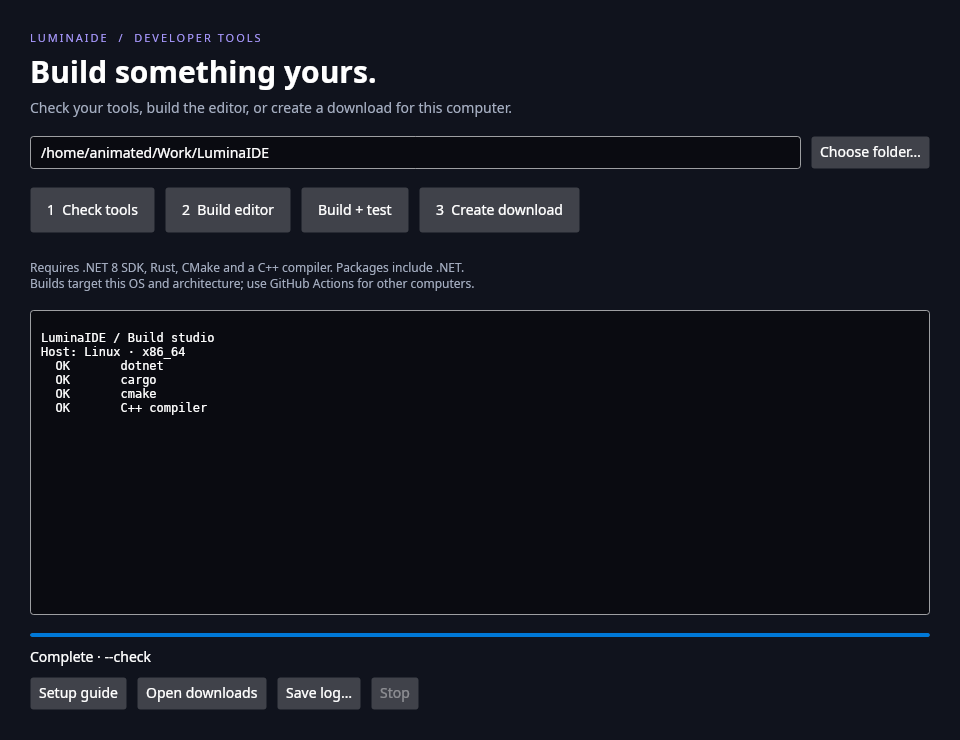
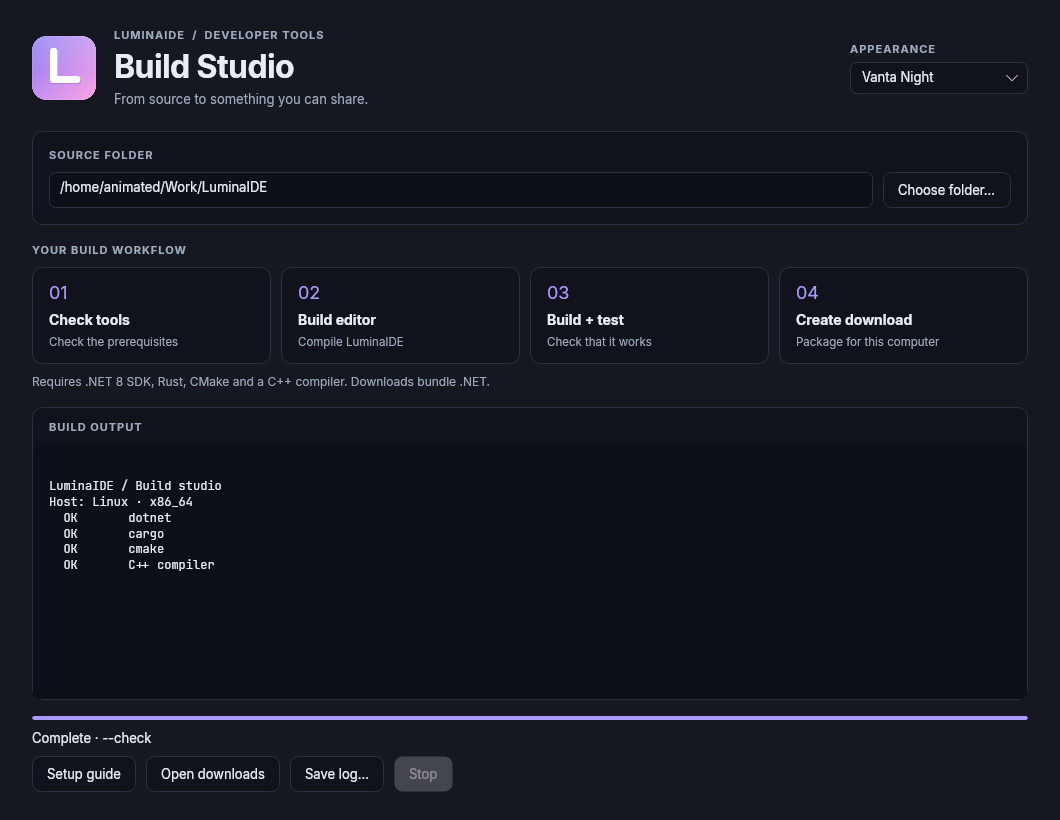
Match Build Studio to editor themes and prepare 0.3.0 release

diff --git a/tools/Builder/Program.cs b/tools/Builder/Program.cs
@@ -2,6 +2,11 @@ using System.Diagnostics;
 using Avalonia;
 using Avalonia.Controls;
 using Avalonia.Layout;
+using Avalonia.Markup.Xaml;
+using Avalonia.Media.Imaging;
+using Avalonia.Platform;
+using System.Text.Json;
+using AppTheme = LuminaIDE.Theme;
 using Avalonia.Media;
 using Avalonia.Styling;
 using Avalonia.Themes.Fluent;
@@ -19,8 +24,8 @@ public sealed class BuilderApp : Application
 {
     public override void Initialize()
     {
-        RequestedThemeVariant = ThemeVariant.Dark;
-        Styles.Add(new FluentTheme());
+        AvaloniaXamlLoader.Load(this);
+        ThemeManager.Apply(AppTheme.Fallback);
     }
     public override void OnFrameworkInitializationCompleted()
     {
@@ -34,7 +39,7 @@ public sealed class BuilderWindow : Window
 {
     readonly TextBox _source = new() { Watermark = "Choose the extracted LuminaIDE source folder" };
     readonly TextBox _log = new() { IsReadOnly = true, AcceptsReturn = true, TextWrapping = TextWrapping.NoWrap,
-        FontFamily = new FontFamily("Cascadia Code, Menlo, DejaVu Sans Mono"), FontSize = 12, MinHeight = 200 };
+        FontSize = 12, MinHeight = 140 };
     readonly TextBlock _status = new() { Text = "Ready · Start by checking your tools", TextWrapping = TextWrapping.Wrap };
     readonly ProgressBar _progress = new() { Height = 3, Minimum = 0, Maximum = 100 };
     readonly Button _cancel = new() { Content = "Stop", IsEnabled = false };
@@ -45,37 +50,80 @@ public sealed class BuilderWindow : Window
 
     public BuilderWindow()
     {
-        Title = "LuminaIDE · Build studio";
-        Width = 960; Height = 740; MinWidth = 700; MinHeight = 560;
-        Background = Brush.Parse("#10131D");
-        var content = new Grid { RowDefinitions = new("Auto,Auto,Auto,Auto,*,Auto"), Margin = new Thickness(30) };
-        var heading = new StackPanel { Spacing = 6 };
-        heading.Children.Add(new TextBlock { Text = "LUMINAIDE  /  DEVELOPER TOOLS", FontSize = 11, Foreground = Brush.Parse("#A99AFF"), LetterSpacing = 2 });
-        heading.Children.Add(new TextBlock { Text = "Build something yours.", FontSize = 30, FontWeight = FontWeight.Bold });
-        heading.Children.Add(new TextBlock { Text = "Check your tools, build the editor, or create a download for this computer.", Foreground = Brush.Parse("#A7B0C3"), TextWrapping = TextWrapping.Wrap });
-        content.Children.Add(heading);
+        Title = "LuminaIDE · Build Studio";
+        Width = 1060; Height = 820; MinWidth = 800; MinHeight = 720;
+        Icon = new WindowIcon(AssetLoader.Open(new Uri("avares://LuminaIDE.Builder/Assets/icon.png")));
+        _log.Classes.Add("log");
+        var themes = LoadThemes();
+        var preferred = PreferredTheme();
+        var initial = themes.FirstOrDefault(t => t.Name == preferred) ?? themes.First(t => t.Name == "Vanta Night");
+        ThemeManager.Apply(initial);
+
+        var content = new Grid { RowDefinitions = new("Auto,Auto,Auto,*,Auto"), Margin = new Thickness(32, 28) };
+        var header = new Grid { ColumnDefinitions = new("Auto,*,Auto"), Margin = new Thickness(0, 0, 0, 24) };
+        var logo = new Image { Source = new Bitmap(AssetLoader.Open(new Uri("avares://LuminaIDE.Builder/Assets/icon.png"))), Width = 64, Height = 64, Margin = new Thickness(0, 0, 18, 0) };
+        header.Children.Add(logo);
+        var heading = new StackPanel { Spacing = 5, VerticalAlignment = VerticalAlignment.Center };
+        heading.Children.Add(Label("LUMINAIDE  /  DEVELOPER TOOLS", "section"));
+        heading.Children.Add(new TextBlock { Text = "Build Studio", FontSize = 32, FontWeight = FontWeight.Bold, LetterSpacing = -0.6 });
+        heading.Children.Add(Label("From source to something you can share.", "muted"));
+        Grid.SetColumn(heading, 1); header.Children.Add(heading);
+        var themePanel = new StackPanel { Spacing = 6, VerticalAlignment = VerticalAlignment.Center };
+        themePanel.Children.Add(Label("APPEARANCE", "section"));
+        var picker = new ComboBox { ItemsSource = themes.Select(t => t.Name).ToArray(), SelectedItem = initial.Name, Width = 178 };
+        picker.SelectionChanged += (_, _) => {
+            if (picker.SelectedItem is string name && themes.FirstOrDefault(t => t.Name == name) is { } selected)
+                ThemeManager.Apply(selected);
+        };
+        themePanel.Children.Add(picker); Grid.SetColumn(themePanel, 2); header.Children.Add(themePanel);
+        content.Children.Add(header);
+
+        var sourcePanel = new StackPanel { Spacing = 10 };
+        sourcePanel.Children.Add(Label("SOURCE FOLDER", "section"));
         var sourceRow = new Grid { ColumnDefinitions = new("*,Auto") };
         sourceRow.Children.Add(_source);
         var browse = new Button { Content = "Choose folder…", Margin = new Thickness(10, 0, 0, 0) }; Grid.SetColumn(browse, 1); sourceRow.Children.Add(browse);
         _actions.Add(browse);
         browse.Click += async (_, _) => {
             try {
-            var folders = await StorageProvider.OpenFolderPickerAsync(new() { Title = "LuminaIDE source folder", AllowMultiple = false });
-            if (folders.Count > 0 && folders[0].Path.IsFile) _source.Text = folders[0].Path.LocalPath;
+                var folders = await StorageProvider.OpenFolderPickerAsync(new() { Title = "LuminaIDE source folder", AllowMultiple = false });
+                if (folders.Count > 0 && folders[0].Path.IsFile) _source.Text = folders[0].Path.LocalPath;
             } catch (Exception ex) { _status.Text = ex.Message; }
         };
-        Grid.SetRow(sourceRow, 1); content.Children.Add(sourceRow);
-        var actions = new WrapPanel { Orientation = Orientation.Horizontal };
-        foreach (var (label, mode) in new[] { ("1  Check tools", "--check"), ("2  Build editor", "build"), ("Build + test", "test"), ("3  Create download", "package") })
+        sourcePanel.Children.Add(sourceRow);
+        var sourceCard = new Border { Child = sourcePanel, Margin = new Thickness(0, 0, 0, 18) }; sourceCard.Classes.Add("card");
+        Grid.SetRow(sourceCard, 1); content.Children.Add(sourceCard);
+
+        var workflow = new StackPanel { Spacing = 10, Margin = new Thickness(0, 0, 0, 18) };
+        workflow.Children.Add(Label("YOUR BUILD WORKFLOW", "section"));
+        var actions = new Avalonia.Controls.Primitives.UniformGrid { Columns = 4 };
+        foreach (var (number, label, hint, mode) in new[] {
+            ("01", "Check tools", "Check the prerequisites", "--check"),
+            ("02", "Build editor", "Compile LuminaIDE", "build"),
+            ("03", "Build + test", "Check that it works", "test"),
+            ("04", "Create download", "Package for this computer", "package") })
         {
-            var button = new Button { Content = label, Margin = new Thickness(0, 0, 10, 8), Padding = new Thickness(16, 12) };
+            var body = new StackPanel { Spacing = 7 };
+            var index = Label(number, "accent"); index.FontSize = 18;
+            body.Children.Add(index);
+            body.Children.Add(new TextBlock { Text = label, FontWeight = FontWeight.SemiBold, FontSize = 14 });
+            var description = Label(hint, "muted"); description.FontSize = 11.5; body.Children.Add(description);
+            var button = new Button { Content = body, Margin = new Thickness(0, 0, number == "04" ? 0 : 10, 0) };
+            button.Classes.Add("action");
             button.Click += async (_, _) => await Run(mode);
             _actions.Add(button); actions.Children.Add(button);
         }
-        Grid.SetRow(actions, 2); content.Children.Add(actions);
-        var hint = new TextBlock { Text = "Requires .NET 8 SDK, Rust, CMake and a C++ compiler. Packages include .NET.\nBuilds target this OS and architecture; use GitHub Actions for other computers.", Foreground = Brush.Parse("#A7B0C3"), FontSize = 12, TextWrapping = TextWrapping.Wrap };
-        Grid.SetRow(hint, 3); content.Children.Add(hint);
-        Grid.SetRow(_log, 4); content.Children.Add(_log);
+        workflow.Children.Add(actions);
+        var hintText = Label("Requires .NET 8 SDK, Rust, CMake and a C++ compiler. Downloads bundle .NET.", "muted");
+        hintText.FontSize = 12; workflow.Children.Add(hintText);
+        Grid.SetRow(workflow, 2); content.Children.Add(workflow);
+
+        var output = new Grid { RowDefinitions = new("Auto,*") };
+        var outputTitle = Label("BUILD OUTPUT", "section"); outputTitle.Margin = new Thickness(16, 12);
+        output.Children.Add(outputTitle); Grid.SetRow(_log, 1); output.Children.Add(_log);
+        var outputCard = new Border { Child = output, Padding = new Thickness(0), ClipToBounds = true, Margin = new Thickness(0, 0, 0, 16) };
+        outputCard.Classes.Add("card"); Grid.SetRow(outputCard, 3); content.Children.Add(outputCard);
+
         var footer = new StackPanel { Spacing = 10 };
         footer.Children.Add(_progress); footer.Children.Add(_status);
         var links = new WrapPanel();
@@ -83,12 +131,12 @@ public sealed class BuilderWindow : Window
         AddLink(links, "Open downloads", () => { var dir = Path.Combine(Folder(), "dist"); Directory.CreateDirectory(dir); Open(dir); });
         AddLink(links, "Save log…", async () => {
             try {
-            var file = await StorageProvider.SaveFilePickerAsync(new() { SuggestedFileName = "lumina-build.log" });
-            if (file is not null) { await using var stream = await file.OpenWriteAsync(); stream.SetLength(0); await using var writer = new StreamWriter(stream); await writer.WriteAsync(_log.Text); }
+                var file = await StorageProvider.SaveFilePickerAsync(new() { SuggestedFileName = "lumina-build.log" });
+                if (file is not null) { await using var stream = await file.OpenWriteAsync(); stream.SetLength(0); await using var writer = new StreamWriter(stream); await writer.WriteAsync(_log.Text); }
             } catch (Exception ex) { _status.Text = "Could not save log: " + ex.Message; }
         });
         _cancel.Click += (_, _) => Cancel(); links.Children.Add(_cancel);
-        footer.Children.Add(links); Grid.SetRow(footer, 5); content.Children.Add(footer); foreach (var child in content.Children.OfType<Control>().Where(c => Grid.GetRow(c) < 5)) child.Margin = new Thickness(0, 0, 0, 18);
+        footer.Children.Add(links); Grid.SetRow(footer, 4); content.Children.Add(footer);
         Content = content;
         _source.Text = FindSource();
         Closing += (_, e) => { if (_busy) { e.Cancel = true; Cancel(); _status.Text = "Stopping the build. Close this window once it finishes."; } };
@@ -104,6 +152,35 @@ public sealed class BuilderWindow : Window
             using var bitmap = new Avalonia.Media.Imaging.RenderTargetBitmap(new PixelSize((int)Bounds.Width, (int)Bounds.Height), new Vector(96, 96));
             bitmap.Render(this); bitmap.Save(args[shot + 1]); Close();
         };
+    }
+
+    static TextBlock Label(string text, string style)
+    {
+        var label = new TextBlock { Text = text, TextWrapping = TextWrapping.Wrap };
+        label.Classes.Add(style); return label;
+    }
+    static List<AppTheme> LoadThemes()
+    {
+        var themes = new Dictionary<string, AppTheme> { ["Vanta Night"] = AppTheme.Fallback };
+        foreach (var folder in new[] { Path.Combine(AppContext.BaseDirectory, "themes"), Settings.ThemesDir })
+        {
+            try {
+                if (Directory.Exists(folder)) foreach (var file in Directory.GetFiles(folder, "*.json"))
+                    if (AppTheme.Load(file) is { Name.Length: > 0 } theme) themes[theme.Name] = theme;
+            } catch (IOException) { } catch (UnauthorizedAccessException) { }
+        }
+        return themes.Values.OrderBy(t => t.Name).ToList();
+    }
+    static string PreferredTheme()
+    {
+        // Read preferences without rewriting the editor's settings or repairing a broken file.
+        try {
+            using var json = JsonDocument.Parse(File.ReadAllText(Settings.FilePath), new JsonDocumentOptions { CommentHandling = JsonCommentHandling.Skip, AllowTrailingCommas = true });
+            foreach (var entry in json.RootElement.EnumerateObject())
+                if (entry.Name.Equals("theme", StringComparison.OrdinalIgnoreCase) && entry.Value.ValueKind == JsonValueKind.String)
+                    return entry.Value.GetString() ?? "Vanta Night";
+        } catch (IOException) { } catch (UnauthorizedAccessException) { } catch (JsonException) { } catch (InvalidOperationException) { }
+        return "Vanta Night";
     }
 
     void AddLink(Panel panel, string label, Action action)

diff --git a/tests/LuminaIDE.Tests/LogicTests.cs b/tests/LuminaIDE.Tests/LogicTests.cs
@@ -7,18 +7,18 @@ namespace LuminaIDE.Tests;
 /// <summary>Points Settings at a throw-away config folder for the duration of a test.</summary>
 public sealed class TempConfig : IDisposable
 {
-    readonly string? _old = Environment.GetEnvironmentVariable("XDG_CONFIG_HOME");
+    readonly string? _old = Environment.GetEnvironmentVariable("LUMINA_CONFIG_HOME");
     public string Root { get; } = Path.Combine(Path.GetTempPath(), "lumina-tests-" + Guid.NewGuid().ToString("N"));
 
     public TempConfig()
     {
         Directory.CreateDirectory(Root);
-        Environment.SetEnvironmentVariable("XDG_CONFIG_HOME", Root);
+        Environment.SetEnvironmentVariable("LUMINA_CONFIG_HOME", Root);
     }
 
     public void Dispose()
     {
-        Environment.SetEnvironmentVariable("XDG_CONFIG_HOME", _old);
+        Environment.SetEnvironmentVariable("LUMINA_CONFIG_HOME", _old);
         try { Directory.Delete(Root, recursive: true); } catch { /* best effort */ }
     }
 }
@@ -39,11 +39,20 @@ public class SettingsTests
     }
 
     [Fact]
-    public void Config_folder_follows_XDG_and_never_falls_back_to_a_relative_path()
+    public void Config_folder_follows_explicit_override_on_every_platform()
     {
         using var cfg = new TempConfig();
         Assert.StartsWith(cfg.Root, Settings.ConfigDir);
         Assert.True(Path.IsPathRooted(Settings.ConfigDir));
+    }
+
+    [Fact]
+    public void Relative_config_override_is_ignored()
+    {
+        using var cfg = new TempConfig();
+        Environment.SetEnvironmentVariable("LUMINA_CONFIG_HOME", "relative-config");
+        Assert.True(Path.IsPathFullyQualified(Settings.ConfigDir));
+        Assert.DoesNotContain("relative-config", Settings.ConfigDir);
     }
 
     [Fact]

diff --git a/app/Settings.cs b/app/Settings.cs
@@ -63,7 +63,7 @@ public sealed class Settings
     };
 
     /// <summary>
-    /// ~/.config/luminaide (or $XDG_CONFIG_HOME/luminaide; %APPDATA%\luminaide on Windows). DoNotVerify matters:
+    /// The OS application-data folder, or LUMINA_CONFIG_HOME/luminaide for an explicit override. DoNotVerify matters:
     /// by default .NET returns "" on Linux when the folder doesn't exist yet, which would silently
     /// become a relative path in the current directory.
     /// </summary>
@@ -71,6 +71,9 @@ public sealed class Settings
     {
         get
         {
+            var configOverride = Environment.GetEnvironmentVariable("LUMINA_CONFIG_HOME");
+            if (!string.IsNullOrWhiteSpace(configOverride) && Path.IsPathFullyQualified(configOverride))
+                return Path.Combine(configOverride, "luminaide");
             var root = Environment.GetFolderPath(Environment.SpecialFolder.ApplicationData, Environment.SpecialFolderOption.DoNotVerify);
             if (string.IsNullOrEmpty(root)) root = Path.Combine(Environment.GetFolderPath(Environment.SpecialFolder.UserProfile), ".config");
             return Path.Combine(root, "luminaide");

diff --git a/CHANGELOG.md b/CHANGELOG.md
@@ -5,12 +5,17 @@ All notable changes to LuminaIDE are documented here. The format follows
 
 ## [Unreleased]
 
+## [0.3.0] - 2026-09-20
+
+Build, download and make it yours.
+
 ### Added
 - **Build Studio**: a graphical builder for Windows, macOS and Linux with prerequisite checks, live compiler output, cancellation, tests and self-contained download packaging.
 - **Build from any browser**: manually trigger the Downloads workflow on GitHub to build Linux x64/ARM64, macOS Intel/Apple silicon and Windows x64 packages. Downloadable artifacts include SHA-256 checksums.
 - **Binary installers** in Linux and Windows downloads add app-menu / Start-menu entries without requiring source code or developer tools.
 
 ### Changed
+- **Build Studio matches the editor**: shared theme colours, Inter and JetBrains Mono, the LuminaIDE icon, matching cards and controls, and a theme picker that starts with your editor theme.
 - **A calmer interface**: opaque surfaces, a neutral Vanta Night palette, clearer secondary text, compact welcome cards and shorter release-note previews.
 - **Build scripts** now show numbered stages, check dependencies before building, preserve CMake generator choices, and expose build, run, test, package and GUI commands. Windows discovers Visual Studio Build Tools automatically.
 - Updated Intel macOS release runners and documented platform setup, architecture selection and browser builds.
@@ -19,6 +24,7 @@ All notable changes to LuminaIDE are documented here. The format follows
 - **Liquid Glass** themes, window blur settings and animated welcome-page orbs. Existing Liquid Glass selections migrate to Vanta Night; legacy translucent UI colours become opaque.
 
 ### Fixed
+- Cross-platform configuration isolation and Windows builds selecting Git Bash’s `link.exe` instead of the MSVC linker.
 - Linux release downloads no longer include a source-only installer that cannot work from the archive.
 
 ## [0.2.0] - 2026-09-20

diff --git a/docs/BUILDING.md b/docs/BUILDING.md
@@ -75,6 +75,8 @@ After installing the .NET 8 SDK:
 
 Choose the extracted source folder, then use **Check tools**, **Build editor**, **Build + test** or **Create download**. Compiler output appears live. **Stop** terminates the active build and its child processes. **Save log** exports the displayed output (the last approximately 200–250 KB for long runs). **Open downloads** opens `dist/`.
 
+Build Studio shares the editor's Inter / JetBrains Mono fonts, theme colours and controls. It reads your editor theme at startup; its Appearance picker previews built-in and custom themes without changing your editor settings.
+
 The GUI compiles on first launch and uses the same scripts as CI. It does not silently install dependencies or require Python. Keep one build running per source folder; build output directories are shared.
 
 ## Terminal commands

diff --git a/docs/CONFIG.md b/docs/CONFIG.md
@@ -5,8 +5,10 @@ Settings live in one file, `settings.json`. Change them on the **Settings page**
 | OS | Config folder |
 |---|---|
 | Linux | `~/.config/luminaide` (or `$XDG_CONFIG_HOME/luminaide`) |
-| macOS | `~/.config/luminaide` |
+| macOS | `~/Library/Application Support/luminaide` |
 | Windows | `%APPDATA%\luminaide` |
+
+Set `LUMINA_CONFIG_HOME` to an absolute directory to override the config root on any OS; LuminaIDE adds a `luminaide/` subfolder. Relative overrides are ignored. This is also useful for isolated testing.
 
 Open it from **Settings → Open settings.json** or the command palette. Files in that folder:
 

diff --git a/README.md b/README.md
@@ -34,7 +34,7 @@ Tabs, 89 languages, a live Markdown preview, npm/Vite tools, an AI agent panel, 
 
 ## Install
 
-Grab a self-contained package from [Releases](https://github.com/AnimatedGTVR/LuminaIDE/releases) once a release is published. No .NET installation is needed.
+Download a self-contained package from [Releases](https://github.com/AnimatedGTVR/LuminaIDE/releases/latest). No .NET installation is needed.
 
 **[Download and build guide](docs/BUILDING.md)** · **[Build from any browser](https://github.com/AnimatedGTVR/LuminaIDE/actions/workflows/release.yml)**
 

diff --git a/docs/THEMES.md b/docs/THEMES.md
@@ -10,7 +10,7 @@ A theme is one JSON file. LuminaIDE ships seven and you can add your own without
 
 Themes with the same `name` as a built-in one replace it. Broken files are listed under the Extensions panel instead of crashing anything.
 
-Folder locations: Linux `~/.config/luminaide/themes`, macOS `~/.config/luminaide/themes`, Windows `%APPDATA%\luminaide\themes`.
+Folder locations: Linux `~/.config/luminaide/themes`, macOS `~/Library/Application Support/luminaide/themes`, Windows `%APPDATA%\luminaide\themes`.
 
 ## File format
 
